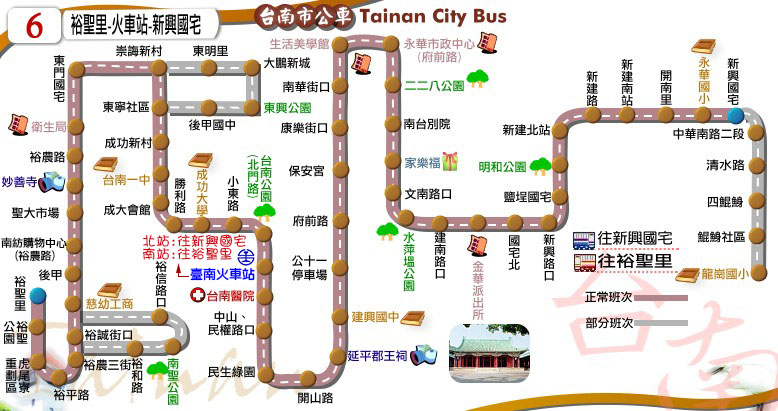
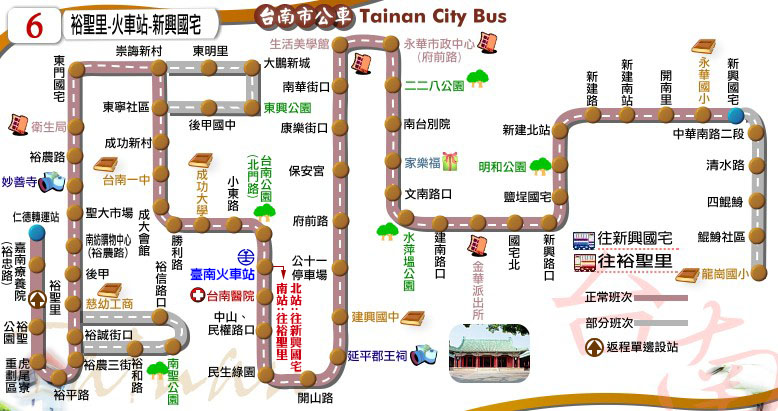
更新時刻表：6路延駛「仁德轉運站」

Changed region(s): [[0.0, 0.438, 0.3085, 0.7883], [0.3393, 0.6423, 0.401, 0.9051], [0.7404, 0.8175, 0.8638, 0.8759]]

diff --git a/route/fare_and_time/city_bus_6.js b/route/fare_and_time/city_bus_6.js
@@ -1,14 +1,14 @@
 // format = [time at the start stop] or
 // [time, other] or
 // [time, start_stop, end_stop, other]
-city_bus_6_main_stop_name = ["裕聖里","虎尾寮<br />重劃區","後甲<br />圓環","東門<br />國宅","臺南<br />一中","臺南<br />火車站","延平<br />郡王祠","永華<br />市政中心","鹽埕<br />國宅","新興<br />國宅","龍崗<br />國小"];
-city_bus_6_main_stop_time_consume = [0, 2, 10, 20, 27, 32, 38, 47, 57, 62, 67];
-city_bus_6_important_stop = [0, 2, 5, 7]; // 裕聖里, 後甲圓環, 臺南火車站, 永華市政中心
-city_bus_6_time_go = [["06:00",0,9,['W',[3,-2]]],["06:18",['義']],["06:43",0,9,['義',[5,5]]],["06:58",0,9,['W']],
-["07:08",0,9,['H']],["07:38",['後']],["08:08",0,9],["08:48",0,9,['義']],["09:28"],["10:08",0,9],["10:48",0,9],
-["11:28",['後']],["12:08",0,9],["12:48",0,9],["13:28",['義']],["14:08",0,9],["14:48",0,9,[[5,5]]],["15:23",0,9],
-["15:53",0,9],["16:18"],["16:48"],["17:13",['後',[5,5]]],["17:33",['義',[5,5]]],["18:08",0,9],["18:48",0,9],
-["19:23",0,9,['義']],["20:03",0,9,['W']],["20:13",0,9,['H',[3,-5]]],["20:43",0,9,['W']],["21:08",0,9,[[3,-5]]]
+city_bus_6_main_stop_name = ["仁德<br />轉運站","虎尾寮<br />重劃區","後甲<br />圓環","東門<br />國宅","臺南<br />一中","臺南<br />火車站","延平<br />郡王祠","永華<br />市政中心","鹽埕<br />國宅","新興<br />國宅","龍崗<br />國小"];
+city_bus_6_main_stop_time_consume = [0, 5, 13, 23, 30, 35, 41, 50, 60, 65, 70];
+city_bus_6_important_stop = [0, 2, 5, 7]; // 仁德轉運站, 後甲圓環, 臺南火車站, 永華市政中心
+city_bus_6_time_go = [["05:57",0,9,['W',[3,-2]]],["06:15",['義']],["06:40",0,9,['義',[5,5]]],["06:55",0,9,['W']],
+["07:05",0,9,['H']],["07:35",['後']],["08:05",0,9],["08:45",0,9,['義']],["09:25"],["10:05",0,9],["10:45",0,9],
+["11:25",['後']],["12:05",0,9],["12:45",0,9],["13:25",['義']],["14:05",0,9],["14:45",0,9,[[5,5]]],["15:20",0,9],
+["15:50",0,9],["16:15"],["16:45"],["17:10",['後',[5,5]]],["17:30",['義',[5,5]]],["18:05",0,9],["18:45",0,9],
+["19:20",0,9,['義']],["20:00",0,9,['W']],["20:10",0,9,['H',[3,-5]]],["20:40",0,9,['W']],["21:05",0,9,[[3,-5]]]
 ];
 city_bus_6_time_return = [["06:00",[[7,-5]]],["06:25",['後']],["06:55",9,0],["07:20",['義']],["08:05",9,0],
 ["08:45",9,0],["09:20"],["10:05",9,0,['後']],["10:45",9,0],["11:20"],["12:05",9,0,['義']],["12:45",9,0],["13:20"],
